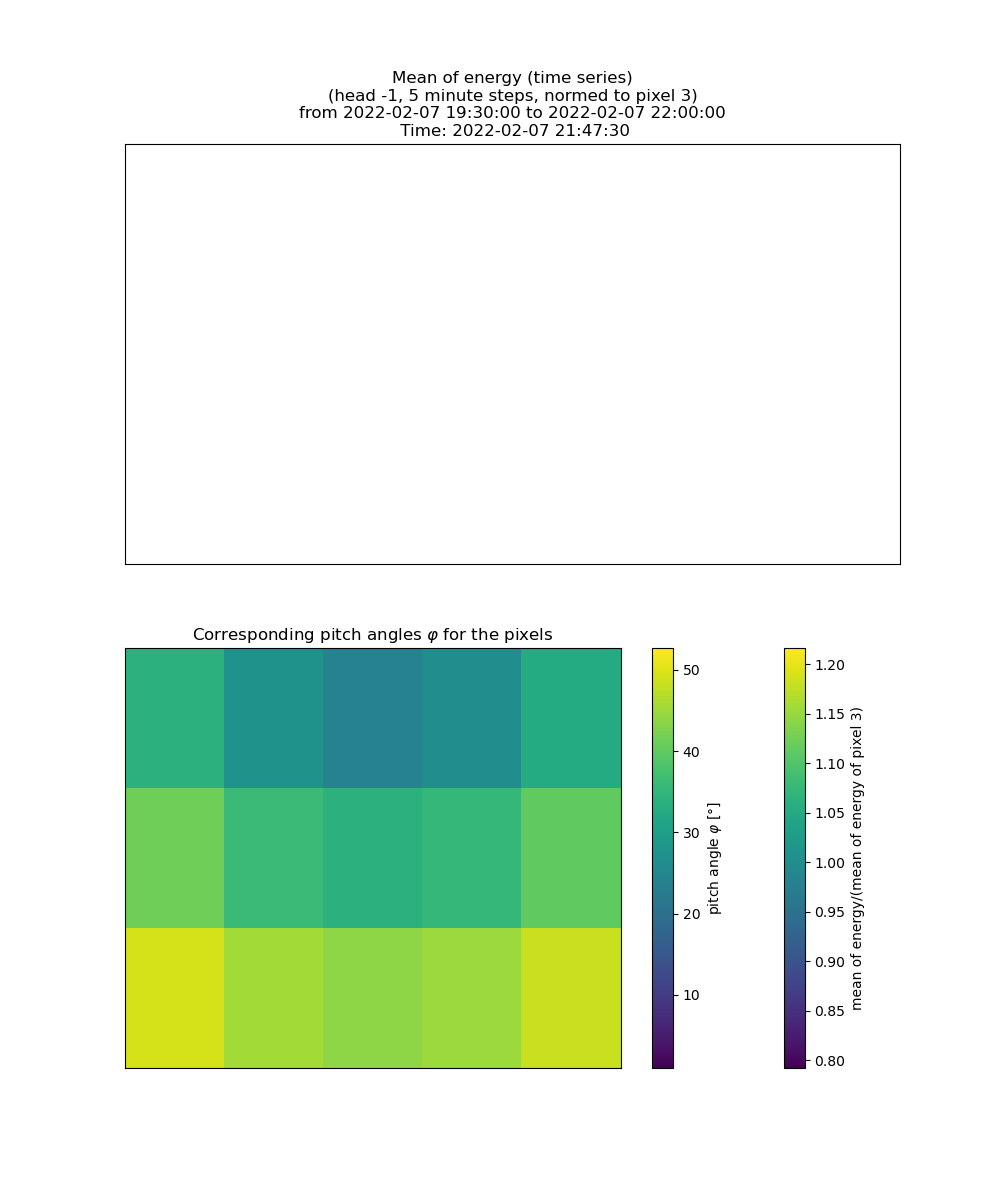
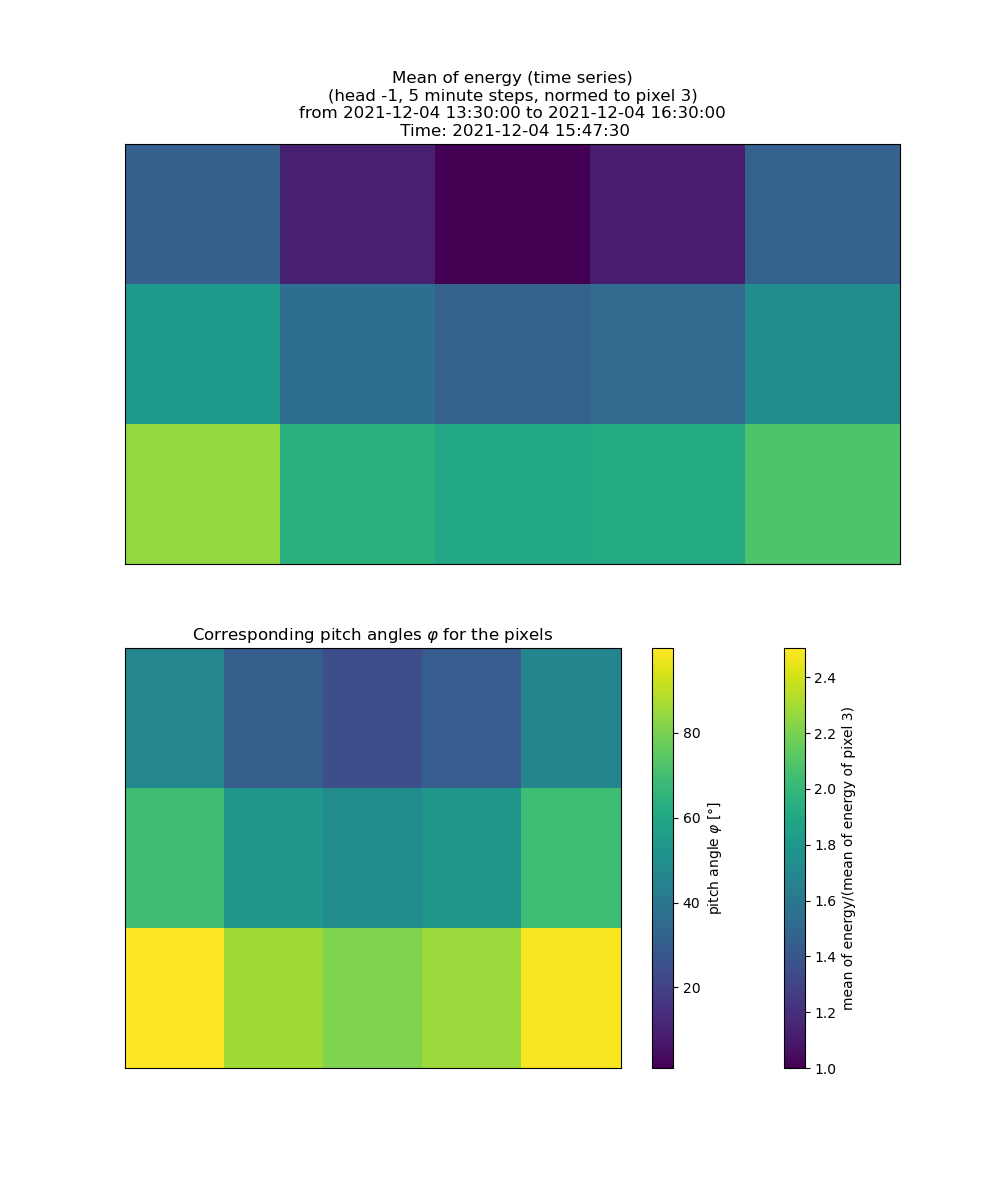
Herausgefunden, was alles nicht so geht...

diff --git a/analyze_nom_II.py b/analyze_nom_II.py
@@ -589,7 +589,15 @@ class STEP:
         if close:
             plt.close('all')
             
-    def distribution_ring(self, filename, title, head, norm, period, box_list, norm_pixel, res = '1min', overflow = True, esquare = False,window_width = 5, close=False, sorted_by_energy=False):
+    def correction_pw(self,norm_value, value):
+        '''Berechnet aus den zwei übergebenen Pitchwinkel-Werten einen Korrekturfaktor, um die Pitchwinkeleffekte zu korrigieren.'''
+        # corr = norm_value/value
+        corr = value/norm_value
+        # corr = np.cos(norm_value)/np.cos(value)
+        # corr = np.cos(value)/np.cos(norm_value)
+        return corr
+            
+    def distribution_ring(self, filename, title, head, norm, period, box_list, norm_pixel, correction = False, save='gif/', res = '1min', overflow = True, esquare = False,window_width = 5, close=False, sorted_by_energy=False):
         '''Darstellung von means der einzelnen Pixel und Pitchwinkel als GIF. Es soll die ringförmige Verteilung deutlich werden. Code basiert auf minütlichen Daten!!!'''
         
         # Berechnung der Energie-Mittelwerte und Mittelung der Pitchwinkel über Intervalle der Länge window_width
@@ -641,20 +649,29 @@ class STEP:
         vmax = 1.0
         vmin_pw = 1.0
         vmax_pw = 1.0
+        
         for k in range(0,16):
             if k == 0:
                 pixel_means[k] = np.array(pixel_means[k])
             else:
-                pixel_means[k] = np.array(pixel_means[k])/norm_factor
+                pixel_means[k] = np.array(pixel_means[k])
                 pw[k-1] = np.array(pw[k-1])
-                if np.nanmax(pixel_means[k]) > vmax:
-                    vmax = np.nanmax(pixel_means[k])
-                if np.nanmin(pixel_means[k]) < vmin:
-                    vmin = np.nanmin(pixel_means[k])
-                if np.nanmax(pw[k-1]) > vmax_pw:
-                    vmax_pw = np.nanmax(pw[k-1])
-                if np.nanmin(pw[k-1]) < vmin_pw:
-                    vmin_pw = np.nanmin(pw[k-1])
+        
+        for k in range(1,16):
+            if correction:
+                corr = self.correction_pw(pw[norm_pixel-1],pw[k-1])
+            else:
+                corr = 1.0
+            pixel_means[k] = pixel_means[k]/norm_factor*corr
+            pw[k-1] = pw[k-1]*corr
+            if np.nanmax(pixel_means[k]) > vmax:
+                vmax = np.nanmax(pixel_means[k])
+            if np.nanmin(pixel_means[k]) < vmin:
+                vmin = np.nanmin(pixel_means[k])
+            if np.nanmax(pw[k-1]) > vmax_pw:
+                vmax_pw = np.nanmax(pw[k-1])
+            if np.nanmin(pw[k-1]) < vmin_pw:
+                vmin_pw = np.nanmin(pw[k-1])
                     
                     
         
@@ -662,6 +679,7 @@ class STEP:
         x_corners = [0,1,2,3,4,5]
         y_corners = [0,1,2,3]
         for k in range(len(pixel_means[1])):
+            
             a = [pixel_means[j][ind][k] for j in range(1,6)]
             b = [pixel_means[j][ind][k] for j in range(6,11)]
             c = [pixel_means[j][ind][k] for j in range(11,16)]        
@@ -714,14 +732,14 @@ class STEP:
             frames.append(new_frame)
 
         # Save the png images into a GIF file that loops forever
-        frames[0].save(f'gif/{filename}.gif', format='GIF', append_images=frames[1:], save_all=True, duration=500, loop=0)
+        frames[0].save(save + f'{filename}.gif', format='GIF', append_images=frames[1:], save_all=True, duration=500, loop=0)
         print('Created GIF successfully!')
         
         
         
-    def wrapper_distribution_ring(self,filename,head,norm,period,box_list,norm_pixel,res = '1min', overflow = True, esquare = False,window_width = 5, close=True):
-       self.distribution_ring(filename='pixel_sorted_energy_' + filename, title=f'Mean of energy sorted by energy of pixel {norm_pixel}', head=head, norm=norm, period=period, box_list=box_list, norm_pixel = norm_pixel, res = res, overflow = overflow, esquare = esquare, window_width = window_width, close=close, sorted_by_energy=True)
-       self.distribution_ring(filename='pixel_ring_ts_' + filename, title='Mean of energy (time series)', head=head, norm=norm, period=period,box_list=box_list, norm_pixel = norm_pixel, res = res, overflow = overflow, esquare = esquare, window_width = window_width, close=close, sorted_by_energy=False)   
+    def wrapper_distribution_ring(self,filename,head,norm,period,box_list,norm_pixel, correction=False, save = 'gif/', res = '1min', overflow = True, esquare = False,window_width = 5, close=True):
+       self.distribution_ring(filename='pixel_sorted_energy_' + filename, title=f'Mean of energy sorted by energy of pixel {norm_pixel}', head=head, norm=norm, period=period, box_list=box_list, norm_pixel = norm_pixel, correction=correction, save=save, res = res, overflow = overflow, esquare = esquare, window_width = window_width, close=close, sorted_by_energy=True)
+       self.distribution_ring(filename='pixel_ring_ts_' + filename, title='Mean of energy (time series)', head=head, norm=norm, period=period,box_list=box_list, norm_pixel = norm_pixel, correction=correction, save = save, res = res, overflow = overflow, esquare = esquare, window_width = window_width, close=close, sorted_by_energy=False)   
 
 
     def landau(self,x,A,B,C,D):

diff --git a/workbench.py b/workbench.py
@@ -26,13 +26,6 @@ fov = np.array([[-25,24],[-25,12],[-25,0],[-25,-12],[-25,-24],[-35,24],[-35,12],
 
 
 
-# Versuch Magnetfelddaten aus cdf zu laden
-
-# dat = mag.MAGdata(period=[dt.datetime(2021,12,4),dt.datetime(2021,12,5)])
-
-# dat.pw_ts()
-
-# Test, ob Git wieder geht...
 
 
 ### Plausibilitätscheck Pitchwinkel-Berechnung ###
@@ -83,39 +76,16 @@ def plausibility_check(B_phi,B_theta):
 
     plt.savefig(f'plausibility_check/plausibility_check_phi_{B_phi}_theta_{B_theta}.png')
 
-for angles in fov:
-    plausibility_check(angles[0],angles[1])
+# for angles in fov:
+#     plausibility_check(angles[0],angles[1])
 
 
-# dat = STEP('data/',2021,12,4)
-# box_list = [[[20,40],[25,35]],[[40,60],[15,25]]]
 
-# pldat, pltime, vmax = dat.data_prep(ebins,res = '1min', head = 0, period = [dt.datetime(2021,12,4,13,30),dt.datetime(2021,12,4,16,30)], norm = 'tmax', overflow = True, esquare = False)
-# box_data = dat.data_boxes(pldat,box_list)
+### Herausrechnen der Pitchwinkeleffekte aus den Energie-Mittelwerten ###
 
-# pdat = pldat[4]
-# ptime = np.append(pltime[4],pltime[4][-1]+dt.timedelta(seconds=60))
+dat = STEP(2021,12,4)
 
-# print(len(pldat[4]))
-# print(len(box_data[4]))
+box_list = [[[15,35],[30,38]],[[20,45],[25,30]],[[26,80],[20,25]],[[30,120],[15,20]],[[40,155],[10,15]],[[50,170],[3,10]]]
+period = [dt.datetime(2021,12,4,13,30),dt.datetime(2021,12,4,16,30)]
 
-# for i in range(19,62):
-#        print(box_data[4][i])
-
-# print(pldat)
-# print(len(pldat))
-
-# print(pdat)
-# print(len(pdat))
-# print(pdat.T)
-# print(len(pdat.T))
-
-# print(ptime)
-# print(len(ptime))
-# print(ptime.T)
-# print(len(ptime.T))
-
-# print(len(ebins))
-
-# a = np.zeros((181,56),dtype='float')
-# print(len(a.T))
+dat.wrapper_distribution_ring('21_12_04_electrons_pw_inverse', head=-1, norm='tmax', period=period, box_list=box_list, norm_pixel=3, correction=True, save='test_pitchangle_correction/')
